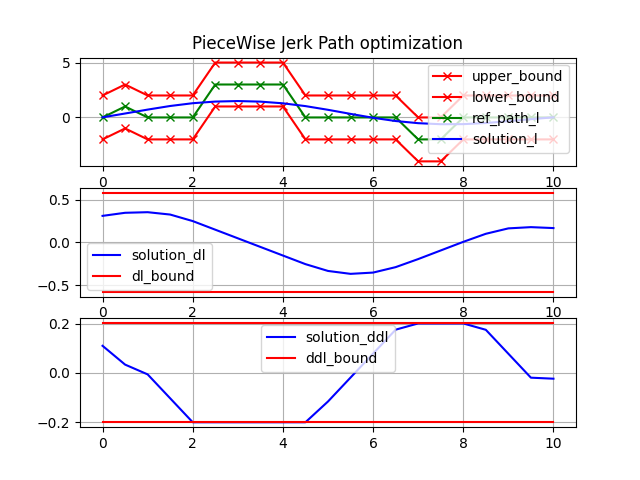
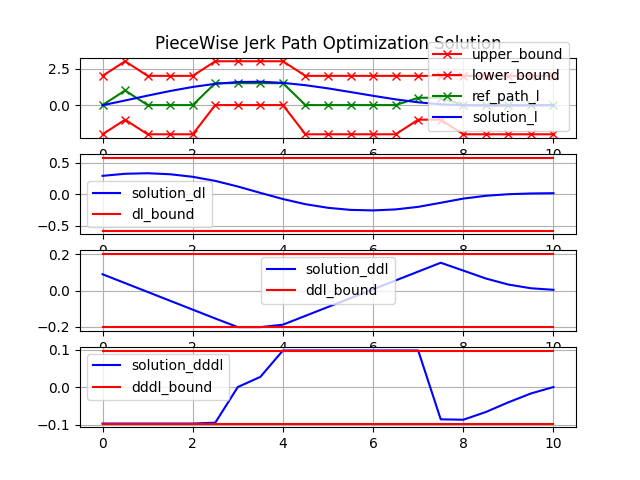
add kappa viz

Changed region(s): [[0.0625, 0.0625, 0.9062, 0.9062], [0.5, 0.8125, 0.5312, 0.8438]]

diff --git a/piecewise_jerk_path_optimize.py b/piecewise_jerk_path_optimize.py
@@ -9,6 +9,9 @@ class PieceJerkPathOptimize(PieceJerkOptimize):
     def __init__(self, num_of_point):
         super().__init__(num_of_point)
         self.ref_path_s = []
+        self.solution_theta = []
+        self.solution_kappa = []
+        self.solution_dkappa = []
         
     def SetReferencePathS(self, ref_path_s):
         self.ref_path_s = ref_path_s
@@ -62,31 +65,75 @@ class PieceJerkPathOptimize(PieceJerkOptimize):
         
         return Q
 
-    def VizResult(self):        
-        plt.subplot(3, 1, 1)
+    def VizResult(self):
+        plt.figure(1)
+        plt.subplot(4, 1, 1)
         plt.plot(self.ref_path_s, self.x_upper_bound,'r',marker="x")
         plt.plot(self.ref_path_s, self.x_lower_bound,'r',marker="x")
         plt.plot(self.ref_path_s, self.ref_x,'g',marker="x")
         plt.plot(self.ref_path_s, self.solution_x,'b')
         plt.grid()
         plt.legend(["upper_bound","lower_bound","ref_path_l","solution_l"])
-        plt.title("PieceWise Jerk Path optimization")
+        plt.title("PieceWise Jerk Path Optimization Solution")
 
-        plt.subplot(3, 1, 2)
+        plt.subplot(4, 1, 2)
         plt.plot(self.ref_path_s, self.solution_dx,'b')
         plt.plot(self.ref_path_s, self.dx_upper_bound,'r')
         plt.plot(self.ref_path_s, self.dx_lower_bound,'r')
         plt.grid()
         plt.legend(["solution_dl","dl_bound"])
 
-        plt.subplot(3, 1, 3)
+        plt.subplot(4, 1, 3)
         plt.plot(self.ref_path_s, self.solution_ddx,'b')
         plt.plot(self.ref_path_s, self.ddx_upper_bound,'r')
         plt.plot(self.ref_path_s, self.ddx_lower_bound,'r')
         plt.legend(["solution_ddl","ddl_bound"])
         plt.grid()
-        plt.show()
+
+        plt.subplot(4, 1, 4)
+        plt.plot(self.ref_path_s, self.solution_dddx,'b')
+        plt.plot(self.ref_path_s, self.dddx_upper_bound,'r')
+        plt.plot(self.ref_path_s, self.dddx_lower_bound,'r')
+        plt.legend(["solution_dddl","dddl_bound"])
+        plt.grid()
+ 
+        plt.figure(2)
+        for index in range(self.num_of_point):
+            self.solution_theta.append(math.atan(self.solution_dx[index]/(1 - self.solution_x[index] * 0.0)) + 0.0)
+
+            delta_theta = self.solution_theta[index] - 0.0
+            cos_delta_theta = math.cos(delta_theta)
+            cos_delta_theta_square = pow(cos_delta_theta, 2)
+            cos_delta_theta_cubic = pow(cos_delta_theta, 3)
+            sin_delta_theta = math.sin(delta_theta)
+
+            self.solution_kappa.append(((self.solution_ddx[index] + (0.0 * self.solution_x[index] + 0.0 * self.solution_dx[index])*math.tan(delta_theta)) * cos_delta_theta_square / (1-0.0 * self.solution_x[index]) + 0.0) * cos_delta_theta/(1 - 0.0 * self.solution_x[index]))
+            
+            delta_kappa = self.solution_kappa[index] - 0.0
+            self.solution_dkappa.append((self.solution_dddx[index] + \
+                                         (0.0 * self.solution_x[index] + 2 * 0.0 * self.solution_dx[index] + 0.0 * self.solution_ddx[index]) * math.tan(delta_theta) + \
+                                         (0.0 * self.solution_x[index] + 0.0 * self.solution_dx[index] * (delta_kappa)/cos_delta_theta_square) -\
+                                         (-(0.0 * self.solution_x[index] + 0.0 * self.solution_dx[index])/cos_delta_theta_square + 2 * (1 - 0.0 * self.solution_x) * sin_delta_theta*delta_kappa/cos_delta_theta_cubic) * ((1-0.0 * self.solution_x[index]/cos_delta_theta) * self.solution_kappa[index] - 0.0) -\
+                                         ((1 - 0.0 * self.solution_x[index]) / cos_delta_theta_square * ((sin_delta_theta * delta_kappa * (1 - 0.0 * self.solution_x)/cos_delta_theta_square - (0.0 * self.solution_x[index] + 0.0 * self.solution_dx[index])/cos_delta_theta) * self.solution_kappa[index] - 0.0))/ \
+                                         (math.pow((1 - 0.0 * self.solution_x[index]),2)/cos_delta_theta_cubic)))
         
+        plt.subplot(3, 1, 1)
+        plt.plot(self.ref_path_s, self.solution_theta,'b')
+        plt.grid()
+        plt.legend(["solution_theta"])
+        plt.title("PieceWise Jerk Path Optimization Solution")
+
+        plt.subplot(3, 1, 2)
+        plt.plot(self.ref_path_s, self.solution_kappa,'b')
+        plt.legend(["solution_kappa"])
+        plt.grid()
+
+        plt.subplot(3, 1, 3)
+        plt.plot(self.ref_path_s, self.solution_dkappa,'b')
+        plt.legend(["solution_dkappa"])
+        plt.grid()
+        plt.show()
+
 if __name__ == "__main__":
     # weight parameter
     w_l = 5
@@ -117,18 +164,18 @@ if __name__ == "__main__":
 
     ref_path_boundary_upper_l[1] = 3.0
     ref_path_boundary_lower_l[1] = -1.0
-    ref_path_boundary_upper_l[5] = 5.0
-    ref_path_boundary_lower_l[5] = 1.0
-    ref_path_boundary_upper_l[6] = 5.0
-    ref_path_boundary_lower_l[6] = 1.0
-    ref_path_boundary_upper_l[7] = 5.0
-    ref_path_boundary_lower_l[7] = 1.0
-    ref_path_boundary_upper_l[8] = 5.0
-    ref_path_boundary_lower_l[8] = 1.0
-    ref_path_boundary_upper_l[14] = 0.0
-    ref_path_boundary_lower_l[14] = -4.0
-    ref_path_boundary_upper_l[15] = 0.0
-    ref_path_boundary_lower_l[15] = -4.0
+    ref_path_boundary_upper_l[5] = 3.0
+    ref_path_boundary_lower_l[5] = 0.0
+    ref_path_boundary_upper_l[6] = 3.0
+    ref_path_boundary_lower_l[6] = 0.0
+    ref_path_boundary_upper_l[7] = 3.0
+    ref_path_boundary_lower_l[7] = 0.0
+    ref_path_boundary_upper_l[8] = 3.0
+    ref_path_boundary_lower_l[8] = 0.0
+    ref_path_boundary_upper_l[14] = 2.0
+    ref_path_boundary_lower_l[14] = -1.0
+    ref_path_boundary_upper_l[15] = 2.0
+    ref_path_boundary_lower_l[15] = -1.0
 
     ref_path_size = len(ref_path_s)
     ref_path_s_step = [ref_path_s[i+1] - ref_path_s[i] for i in range(ref_path_size - 1)]

diff --git a/piecewise_jerk_speed_optimize.py b/piecewise_jerk_speed_optimize.py
@@ -63,7 +63,7 @@ class PieceJerkSpeedOptimize(PieceJerkOptimize):
         return Q
 
     def VizResult(self):        
-        plt.subplot(3, 1, 1)
+        plt.subplot(4, 1, 1)
         plt.plot(self.ref_path_t, self.x_upper_bound,'r',marker="x")
         plt.plot(self.ref_path_t, self.x_lower_bound,'r',marker="x")
         plt.plot(self.ref_path_t, self.ref_x,'g',marker="x")
@@ -72,18 +72,25 @@ class PieceJerkSpeedOptimize(PieceJerkOptimize):
         plt.legend(["upper_bound","lower_bound","ref_path_s","solution_s"])
         plt.title("PieceWise Jerk Path optimization")
 
-        plt.subplot(3, 1, 2)
+        plt.subplot(4, 1, 2)
         plt.plot(self.ref_path_t, self.solution_dx,'b')
         plt.plot(self.ref_path_t, self.dx_upper_bound,'r')
         plt.plot(self.ref_path_t, self.dx_lower_bound,'r')
         plt.grid()
         plt.legend(["solution_ds","ds_bound"])
 
-        plt.subplot(3, 1, 3)
+        plt.subplot(4, 1, 3)
         plt.plot(self.ref_path_t, self.solution_ddx,'b')
         plt.plot(self.ref_path_t, self.ddx_upper_bound,'r')
         plt.plot(self.ref_path_t, self.ddx_lower_bound,'r')
         plt.legend(["solution_dds","dds_bound"])
+        plt.grid()
+
+        plt.subplot(4, 1, 4)
+        plt.plot(self.ref_path_t, self.solution_dddx,'b')
+        plt.plot(self.ref_path_t, self.dddx_upper_bound,'r')
+        plt.plot(self.ref_path_t, self.dddx_lower_bound,'r')
+        plt.legend(["solution_ddds","ddds_bound"])
         plt.grid()
         plt.show()
         

diff --git a/piecewise_jerk_optimize.py b/piecewise_jerk_optimize.py
@@ -206,8 +206,8 @@ class PieceJerkOptimize:
         
         # dddx bound
         for i in range(self.num_of_point - 1):
-            lb.append(self.dddx_lower_bound[i])
-            ub.append(self.dddx_upper_bound[i])
+            lb.append(self.dddx_lower_bound[i] * self.step[i])
+            ub.append(self.dddx_upper_bound[i] * self.step[i])
 
         # start/end x
         lb.append(self.init_state[0] - 1e-2)
@@ -234,9 +234,6 @@ class PieceJerkOptimize:
             ub.append(10e-5)
 
         numpy.set_printoptions(linewidth=numpy.inf)
-        print(A.toarray())
-        print(lb)
-        print(ub)
         return A,lb,ub    
 
     def Optimize(self):
@@ -256,6 +253,10 @@ class PieceJerkOptimize:
         self.solution_x = res.x[0:self.num_of_point]
         self.solution_dx = res.x[self.num_of_point:2 *self.num_of_point]
         self.solution_ddx = res.x[2 *self.num_of_point:3 * self.num_of_point]
+        
+        for i in range(self.num_of_point - 1):
+            self.solution_dddx.append((self.solution_ddx[i+1] - self.solution_ddx[i])/self.step[i])
+        self.solution_dddx.append(0.0)
 
     def VizResult(self):
         pass
